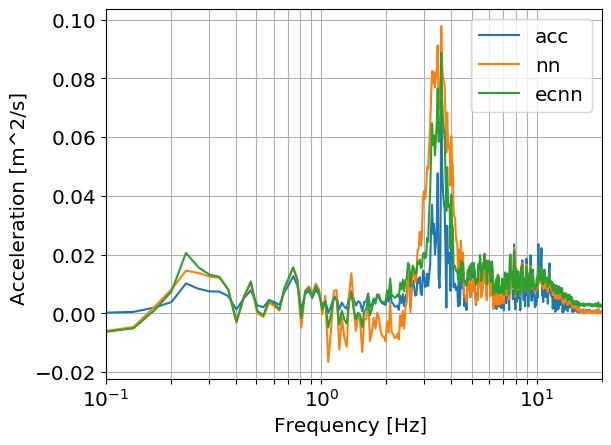
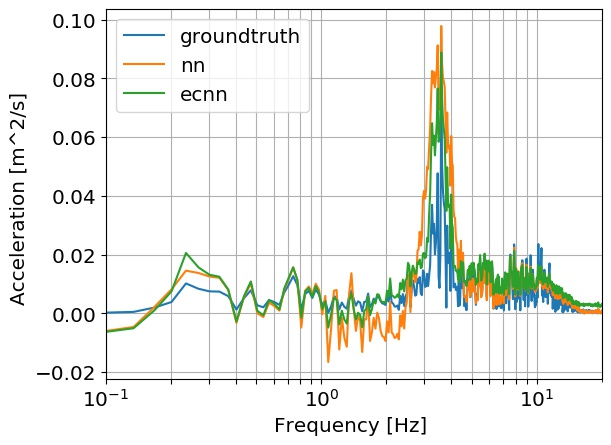
save current

Changed region(s): [[0.1866, 0.0292, 0.4975, 0.2629], [0.7463, 0.0292, 0.964, 0.2629]]

diff --git a/3_mdof/post_process.py b/3_mdof/post_process.py
@@ -103,7 +103,7 @@ pylab.rcParams.update(params)
 
 # #############################
 f, (ax1) = plt.subplots(1, 1)
-plt.semilogx(true_frq, true_acc, label='acc')
+plt.semilogx(true_frq, true_acc, label='groundtruth')
 plt.semilogx(true_frq, nn_acc, label='nn')
 plt.semilogx(true_frq, ecnn_acc, label='ecnn')
 plotFreq_min = 0.1
@@ -147,6 +147,7 @@ plt.show()
 
 
 f, (ax1) = plt.subplots(1, 1)
+plt.semilogx(true_frq, true_dis, label='groundtruth')
 plt.semilogx(true_frq, nn_dis, label='nn')
 plt.semilogx(true_frq, ecnn_dis, label='ecnn')
 plotFreq_min = 0.1
